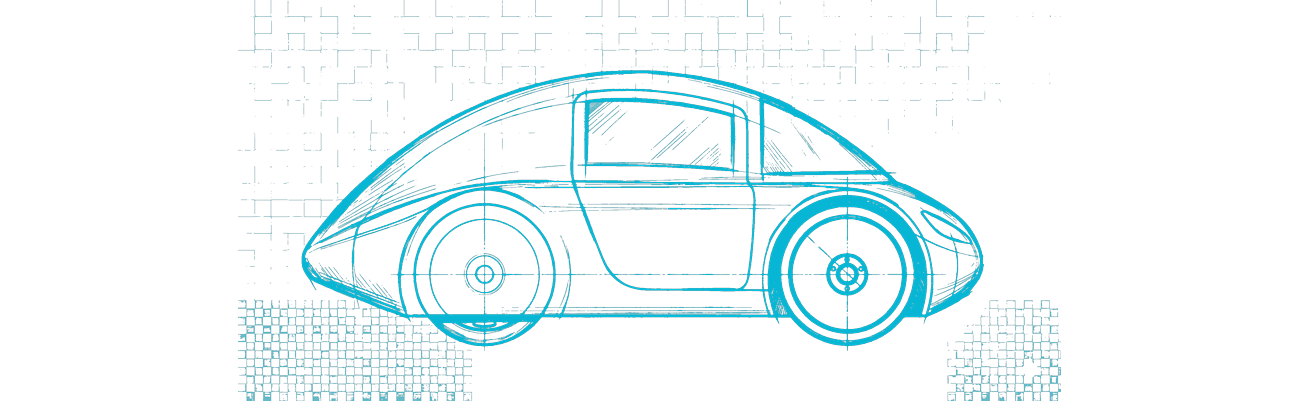
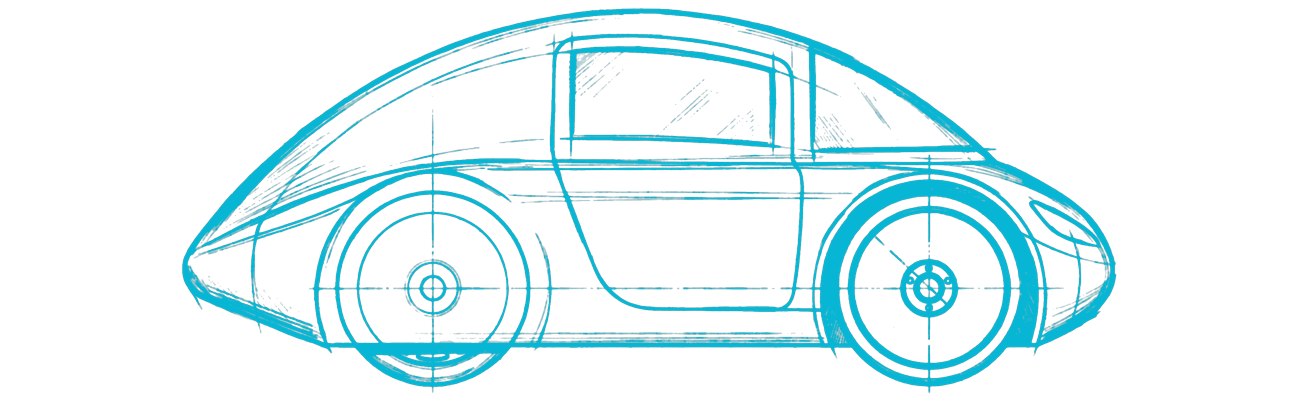
fix: target only cyan colored strokes to remove dark gray background noise in 3 hydro images

Changed region(s): [[0.1232, 0.0, 0.8622, 1.0]]

diff --git a/android-app/app/src/main/assets/index.html b/android-app/app/src/main/assets/index.html
@@ -24,7 +24,7 @@
     <link rel="stylesheet" href="https://cdnjs.cloudflare.com/ajax/libs/font-awesome/6.4.0/css/all.min.css">
 
     <!-- CSS -->
-    <link rel="stylesheet" href="css/style.css?v=116">
+    <link rel="stylesheet" href="css/style.css?v=117">
 
     <!-- FAST SPLASH CHECK -->
     <script>
@@ -1223,7 +1223,7 @@
     <script src="https://unpkg.com/leaflet@1.9.4/dist/leaflet.js"></script>
 
     <!-- Custom Scripts (Minified for Production) -->
-    <script src="js/app.min.js?v=116"></script>
+    <script src="js/app.min.js?v=117"></script>
 
     <!-- Service Worker & Pull-to-Refresh -->
     <script>
@@ -1266,4 +1266,5 @@
 </body>
 
 </html>
+
 

diff --git a/public/index.html b/public/index.html
@@ -24,7 +24,7 @@
     <link rel="stylesheet" href="https://cdnjs.cloudflare.com/ajax/libs/font-awesome/6.4.0/css/all.min.css">
 
     <!-- CSS -->
-    <link rel="stylesheet" href="css/style.css?v=116">
+    <link rel="stylesheet" href="css/style.css?v=117">
 
     <!-- FAST SPLASH CHECK -->
     <script>
@@ -1223,7 +1223,7 @@
     <script src="https://unpkg.com/leaflet@1.9.4/dist/leaflet.js"></script>
 
     <!-- Custom Scripts (Minified for Production) -->
-    <script src="js/app.min.js?v=116"></script>
+    <script src="js/app.min.js?v=117"></script>
 
     <!-- Service Worker & Pull-to-Refresh -->
     <script>
@@ -1266,4 +1266,5 @@
 </body>
 
 </html>
+
 

diff --git a/android-app/app/src/main/assets/sw.js b/android-app/app/src/main/assets/sw.js
@@ -10,7 +10,7 @@
 // ============================================================
 
 // Ã–nbellek versiyonu - Her gÃ¼ncellemede artÄ±rÄ±lmalÄ±
-const CACHE_NAME = 'telemetri-v116';
+const CACHE_NAME = 'telemetri-v117';
 
 // Statik dosyalar - Cache First (sadece ikonlar ve manifest)
 const STATIC_ASSETS = [
@@ -193,4 +193,5 @@ self.addEventListener('sync', event => {
         console.log('[SW] Background sync triggered');
     }
 });
+
 

diff --git a/public/sw.js b/public/sw.js
@@ -10,7 +10,7 @@
 // ============================================================
 
 // Ã–nbellek versiyonu - Her gÃ¼ncellemede artÄ±rÄ±lmalÄ±
-const CACHE_NAME = 'telemetri-v116';
+const CACHE_NAME = 'telemetri-v117';
 
 // Statik dosyalar - Cache First (sadece ikonlar ve manifest)
 const STATIC_ASSETS = [
@@ -193,4 +193,5 @@ self.addEventListener('sync', event => {
         console.log('[SW] Background sync triggered');
     }
 });
+
 

diff --git a/scripts/fix_hydro123.py b/scripts/fix_hydro123.py
@@ -1,0 +1,75 @@
+from PIL import Image, ImageFilter
+import os
+
+cyan = (6, 182, 212)
+img_dir = r'c:\Users\ALI\Desktop\1.5 ADANA\telemetry-http\public\img'
+
+def process_hydro(filename, out_filename):
+    src = Image.open(os.path.join(img_dir, filename)).convert('RGB')
+    w, h = src.size
+    px = src.load()
+    
+    mask = Image.new('L', (w, h), 0)
+    mp = mask.load()
+    
+    for y in range(h):
+        for x in range(w):
+            r, g, b = px[x, y]
+            diff_g = g - r
+            diff_b = b - r
+            
+            # Sadece cyan rengin farkliligina bak, "avg < 200" kaldirildi
+            if diff_g > 30 and diff_b > 25:
+                mp[x, y] = 255
+            elif diff_g > 15 and diff_b > 15:
+                mp[x, y] = min(255, int((diff_g / 30) * 200))
+
+    # Cizgileri daha dolgun ve parlak yapmak icin kalınlaştırma
+    mask = mask.filter(ImageFilter.MaxFilter(3))
+    mask = mask.filter(ImageFilter.GaussianBlur(0.8))
+    mp = mask.load()
+    
+    result = Image.new('RGBA', (w, h), (0, 0, 0, 0))
+    rp = result.load()
+    
+    min_x, min_y, max_x, max_y = w, h, 0, 0
+    margin = 5
+    
+    for y in range(h):
+        for x in range(w):
+            a = mp[x, y]
+            if a > 15:
+                rp[x, y] = cyan + (a,)
+                if margin <= x < w-margin and margin <= y < h-margin:
+                    if x < min_x: min_x = x
+                    if y < min_y: min_y = y
+                    if x > max_x: max_x = x
+                    if y > max_y: max_y = y
+                    
+    pad = 20
+    if max_x > min_x:
+        c = result.crop((max(0,min_x-pad), max(0,min_y-pad), 
+                          min(w,max_x+pad), min(h,max_y+pad)))
+    else:
+        c = result
+        
+    cw, ch = c.size
+    ref_name = out_filename.replace('-hydro', '')
+    ref = Image.open(os.path.join(img_dir, ref_name))
+    rw, rh = ref.size
+    ref.close()
+    
+    tw, th = int(rw * 1.4), int(rh * 1.4)
+    scale = min(tw / cw, th / ch)
+    nw, nh = int(cw * scale), int(ch * scale)
+    c = c.resize((nw, nh), Image.LANCZOS)
+    
+    canvas = Image.new('RGBA', (tw, th), (0, 0, 0, 0))
+    ox, oy = (tw - nw) // 2, (th - nh) // 2
+    canvas.paste(c, (ox, oy), c)
+    canvas.save(os.path.join(img_dir, out_filename), 'PNG')
+    print(f'{filename} -> {out_filename} islendi!')
+
+process_hydro('hydro_1.png', 'header-hydro-side.png')
+process_hydro('hydro_2.png', 'header-hydro-front.png')
+process_hydro('hydro_3.png', 'header-hydro-iso.png')

diff --git a/analyze.py b/analyze.py
@@ -1,0 +1,22 @@
+from PIL import Image
+import os
+
+img_dir = r'public\img'
+files = ['hydro_1.png', 'hydro_2.png', 'hydro_3.png', 'hydro_4.png']
+
+for f in files:
+    try:
+        img = Image.open(os.path.join(img_dir, f))
+        mode = img.mode
+        img = img.convert('RGBA')
+        px = img.load()
+        w, h = img.size
+        # Sample points: top-left, top-right, bottom-left, bottom-right, center
+        pts = [(0,0), (w-1,0), (0,h-1), (w-1,h-1)]
+        s_rgba = [px[x,y] for x,y in pts]
+        print(f'{f} ({mode}): {w}x{h}')
+        for i, pt in enumerate(pts):
+            print(f'  {pt}: {s_rgba[i]}')
+        
+    except Exception as e:
+        print(f'Error reading {f}: {e}')
